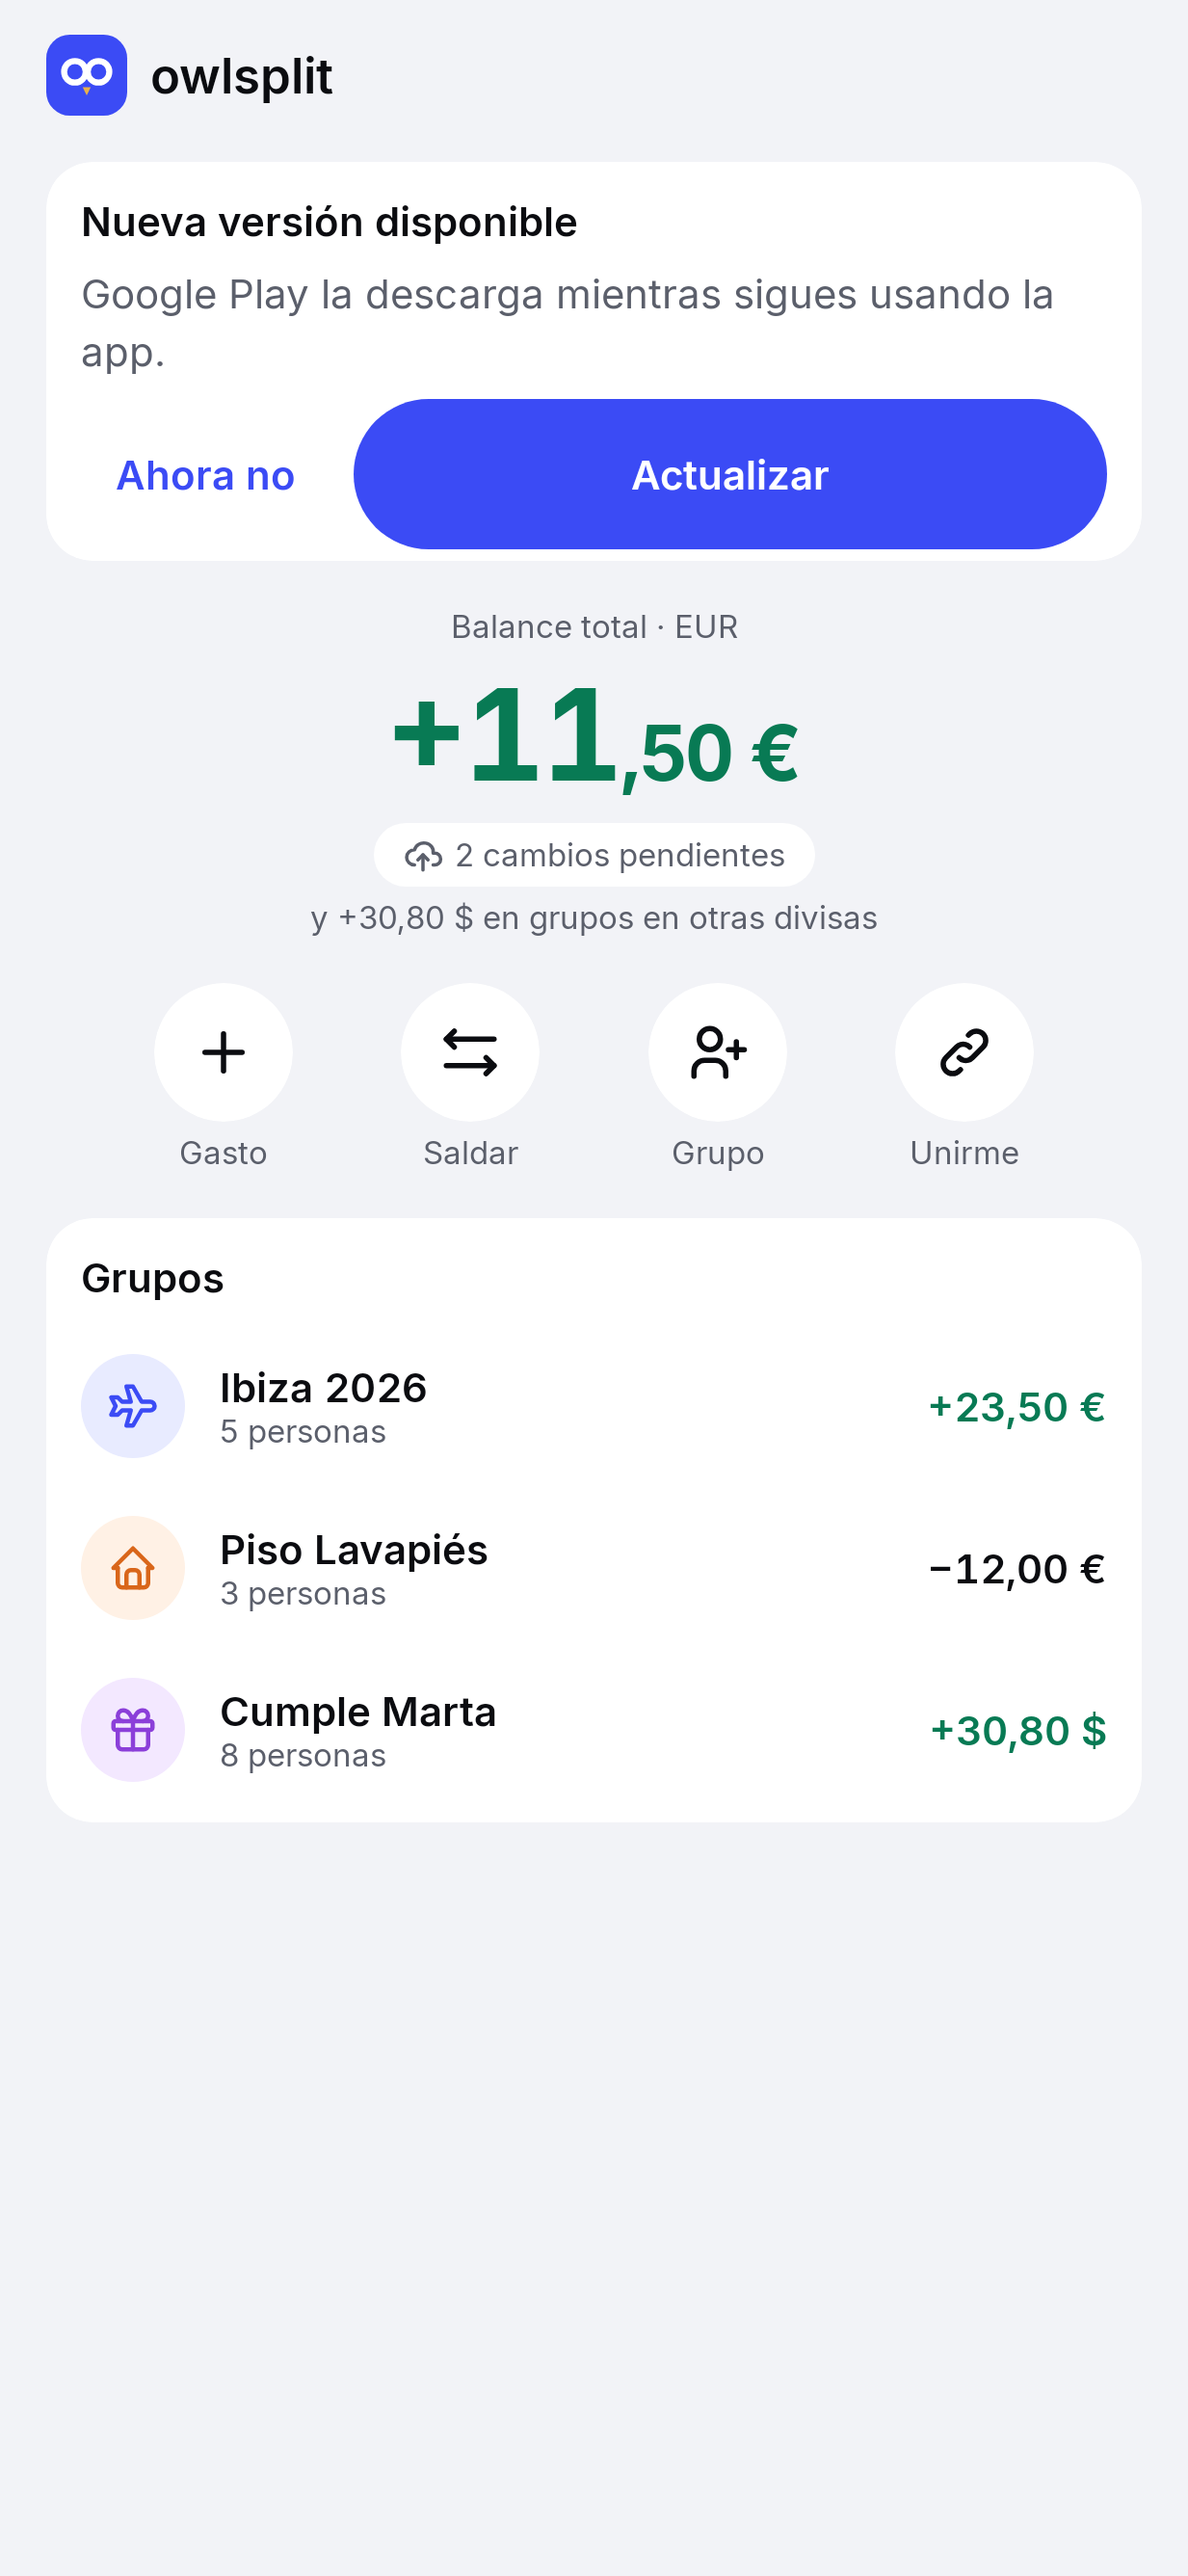
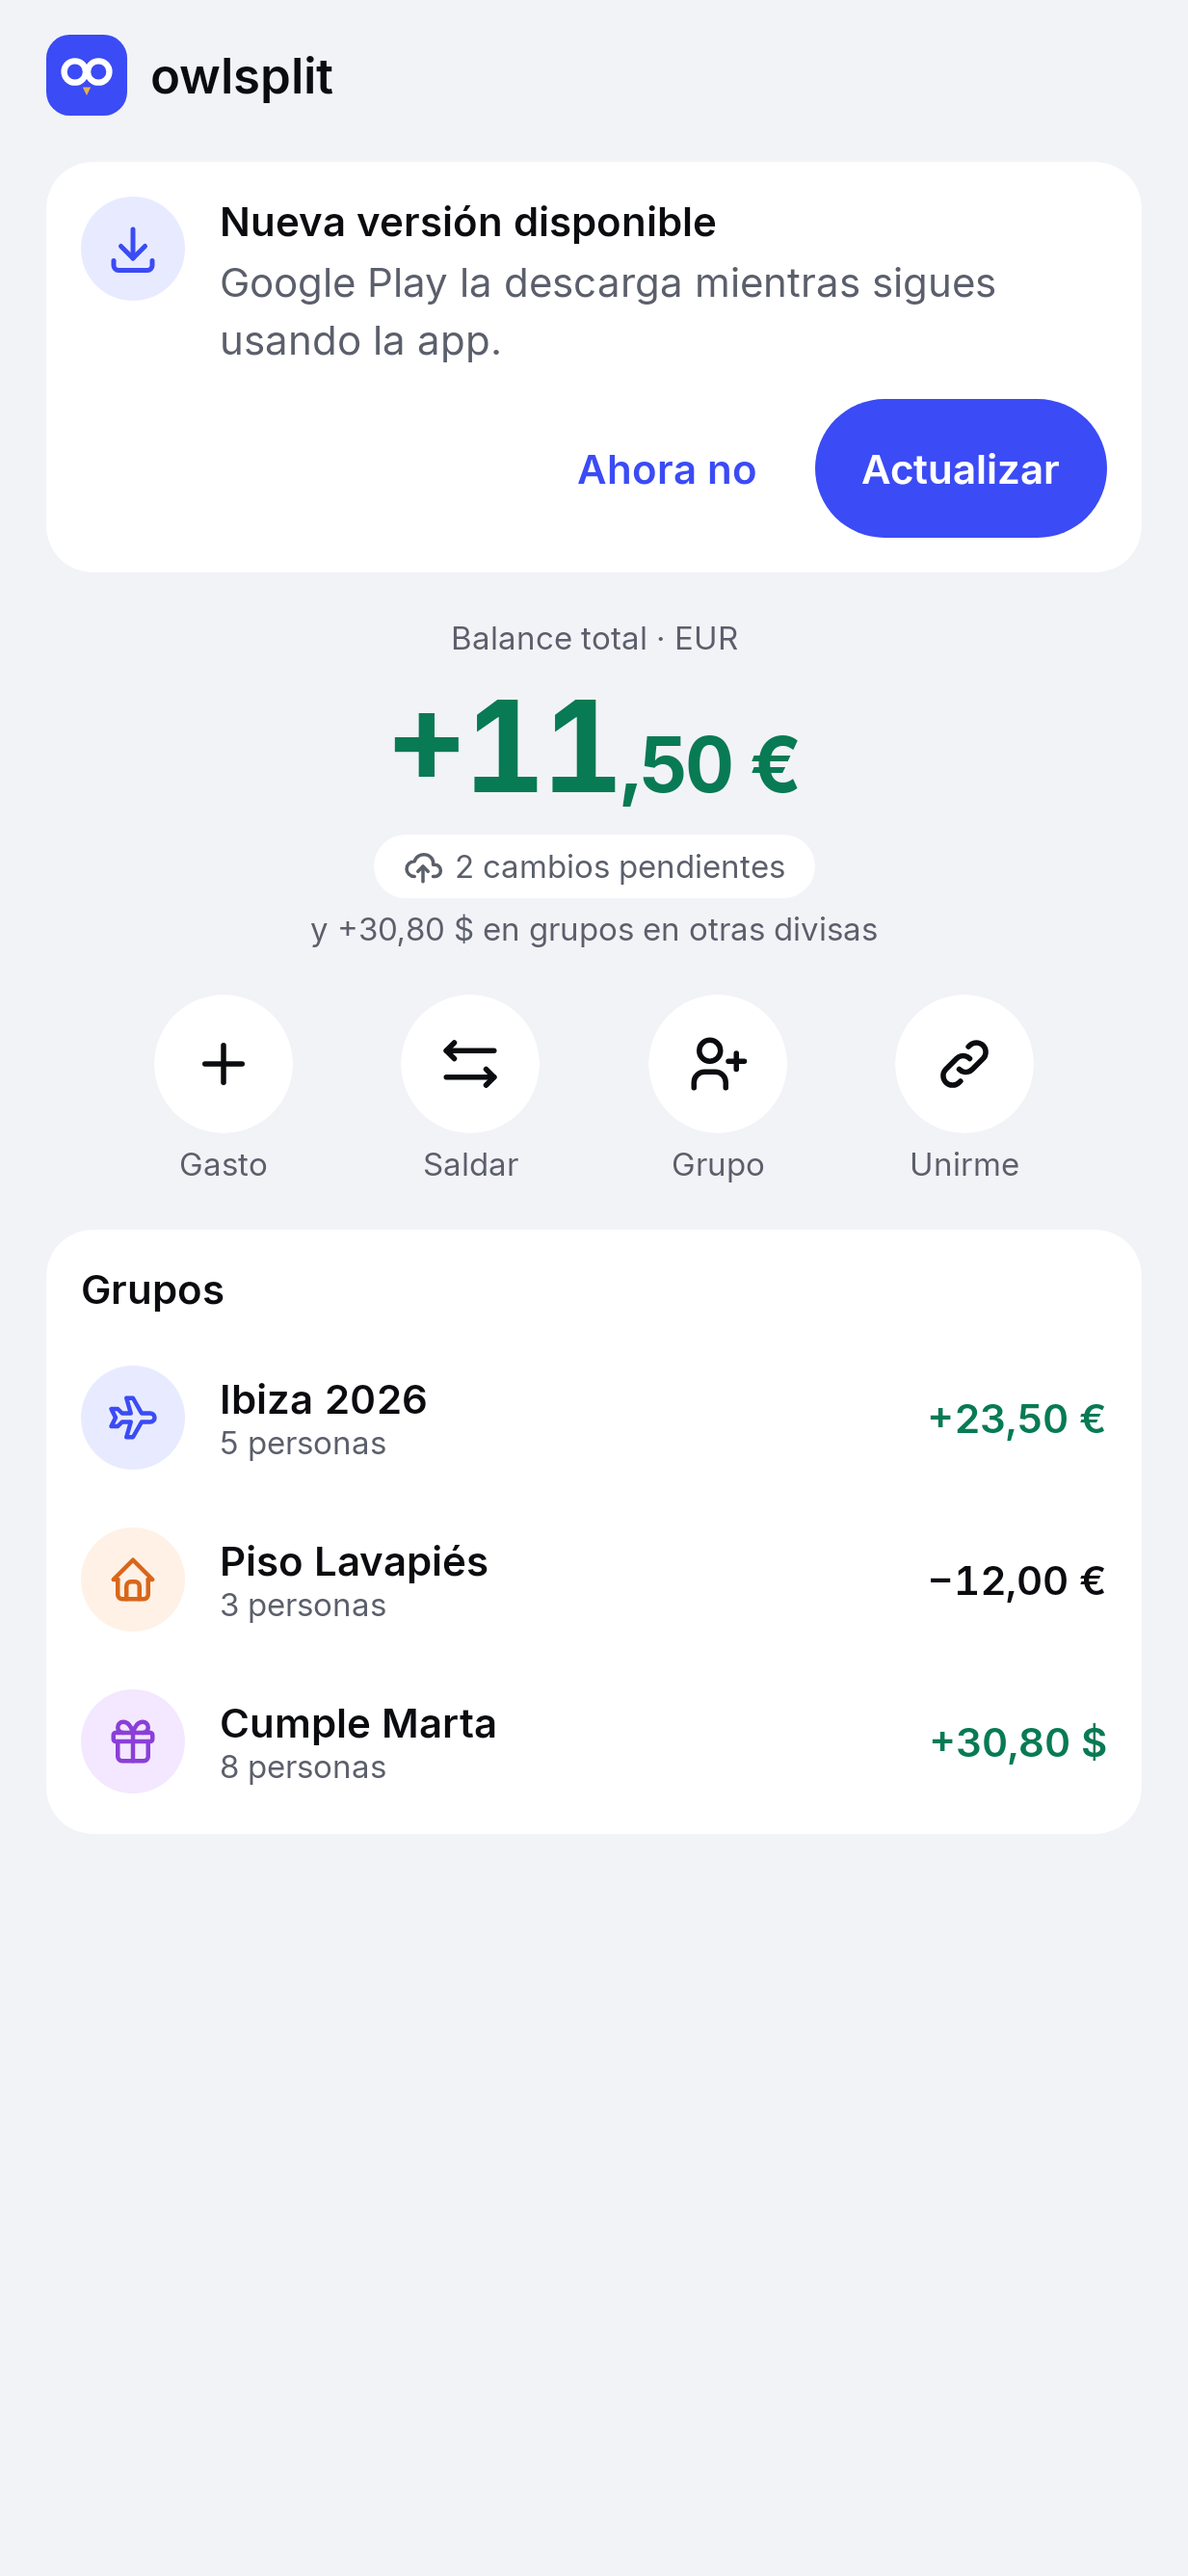
feat(home): Play update notices use CalloutCard
CalloutCard's dismiss action is now optional: an update that is already
downloaded can only be installed. Screenshots re-recorded.

diff --git a/feature/home/src/commonMain/kotlin/es/sebas1705/owlsplit/feature/home/HomeScreen.kt b/feature/home/src/commonMain/kotlin/es/sebas1705/owlsplit/feature/home/HomeScreen.kt
@@ -323,32 +323,25 @@ private fun Update(release: LatestRelease, onEvent: (HomeIntent) -> Unit) {
  */
 @Composable
 private fun StoreUpdateNotice(update: StoreUpdate, onEvent: (HomeIntent) -> Unit) {
-    val downloaded = update is StoreUpdate.Downloaded
-    val title = if (downloaded) Res.string.store_update_ready_title else Res.string.store_update_title
-    val body = if (downloaded) Res.string.store_update_ready_body else Res.string.store_update_body
-    OwlsplitContainer(title = stringResource(title)) {
-        Column(Modifier.padding(horizontal = Spacing.m), verticalArrangement = Arrangement.spacedBy(Spacing.s)) {
-            Text(stringResource(body), style = Owlsplit.type.body, color = Owlsplit.colors.textSecondary)
-            Row(
-                verticalAlignment = Alignment.CenterVertically,
-                horizontalArrangement = Arrangement.spacedBy(Spacing.s)
-            ) {
-                if (downloaded) {
-                    PrimaryPillButton(
-                        stringResource(Res.string.store_update_restart),
-                        { onEvent(HomeIntent.CompleteStoreUpdate) },
-                        Modifier.weight(1f)
-                    )
-                } else {
-                    TextActionButton(stringResource(Res.string.nudge_dismiss), { onEvent(HomeIntent.DismissUpdate) })
-                    PrimaryPillButton(
-                        stringResource(Res.string.update_action),
-                        { onEvent(HomeIntent.StartStoreUpdate) },
-                        Modifier.weight(1f)
-                    )
-                }
-            }
-        }
+    if (update is StoreUpdate.Downloaded) {
+        // Downloaded: nothing to put off, only installing it is left.
+        CalloutCard(
+            icon = TablerIcons.Download,
+            title = stringResource(Res.string.store_update_ready_title),
+            body = stringResource(Res.string.store_update_ready_body),
+            actionLabel = stringResource(Res.string.store_update_restart),
+            onAction = { onEvent(HomeIntent.CompleteStoreUpdate) },
+        )
+    } else {
+        CalloutCard(
+            icon = TablerIcons.Download,
+            title = stringResource(Res.string.store_update_title),
+            body = stringResource(Res.string.store_update_body),
+            actionLabel = stringResource(Res.string.update_action),
+            onAction = { onEvent(HomeIntent.StartStoreUpdate) },
+            dismissLabel = stringResource(Res.string.nudge_dismiss),
+            onDismiss = { onEvent(HomeIntent.DismissUpdate) },
+        )
     }
 }
 

diff --git a/core/ui/src/commonMain/kotlin/es/sebas1705/owlsplit/core/ui/components/Callout.kt b/core/ui/src/commonMain/kotlin/es/sebas1705/owlsplit/core/ui/components/Callout.kt
@@ -39,8 +39,9 @@ fun CalloutCard(
     body: String,
     actionLabel: String,
     onAction: () -> Unit,
-    dismissLabel: String,
-    onDismiss: () -> Unit,
+    /** Null when the suggestion cannot be put off (e.g. an update already downloaded). */
+    dismissLabel: String? = null,
+    onDismiss: (() -> Unit)? = null,
     modifier: Modifier = Modifier,
 ) {
     Column(
@@ -78,7 +79,7 @@ fun CalloutCard(
             horizontalArrangement = Arrangement.spacedBy(Spacing.s, Alignment.End),
             verticalAlignment = Alignment.CenterVertically,
         ) {
-            TextActionButton(dismissLabel, onDismiss)
+            if (dismissLabel != null && onDismiss != null) TextActionButton(dismissLabel, onDismiss)
             CompactPillButton(actionLabel, onAction)
         }
     }
